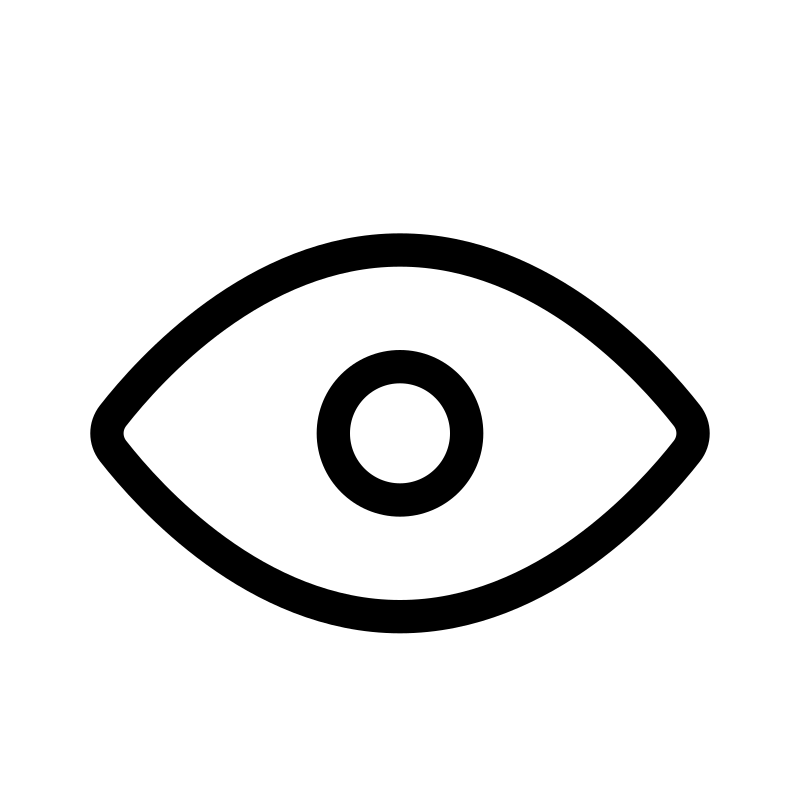
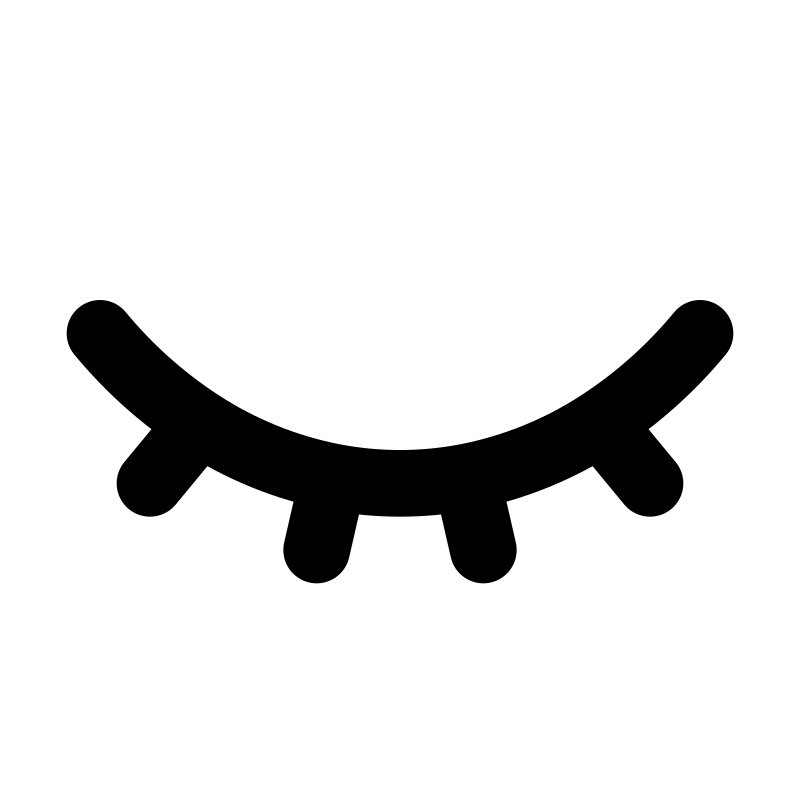
Acabado toda la parte de singleplayer

Changed region(s): [[0.0625, 0.2812, 0.9375, 0.8125]]

diff --git a/script/gamescript.js b/script/gamescript.js
@@ -7,6 +7,7 @@ const hGameWord = document.querySelector(".wordgame")
 const inputPlayerName = document.querySelector(".input-container input")
 const keyboardContainer = document.querySelector('.keyboard-container');
 const imgBallon = document.querySelector(".main-container img")
+const imgeye = document.querySelector(".eye-icon")
 const pLanguage = document.querySelector(".input-container p")
 const pWord = document.querySelector("h1");
 const pPlayerName1 = document.getElementById("PlayerName1");
@@ -64,6 +65,9 @@ btnStartGame.addEventListener("click",function(){
     startGame()
 })
 
+imgeye.addEventListener("click",function(){
+    eyeiconLogic();
+})
 window.addEventListener("load", function (){
    changeLanguageText();
    changebackgroundcolor();
@@ -72,10 +76,65 @@ window.addEventListener("load", function (){
 });
 
 //FUNCTIONS 
+const changeLanguageText = function(){
+    pLanguage.textContent = "Idioma " + "("+ browserinfo.language + ")";
+};
+const changebackgroundcolor = function(){
+    bodyGame.className= "";
+    if(browserinfo.browsername === "Firefox"){
+        bodyGame.classList.add("firefoxbackground");
+    }else if(browserinfo.browsername === "Edge"){
+        bodyGame.classList.add ("edgebackground");
+    }else if(browserinfo.browsername === "Chrome"){
+        bodyGame.classList.add("chromebackground");
+    }
+};
+const getPlayerName = function(){
+    playerinfo.playerName = getCookie("playerName");
+    pPlayerName1.textContent = playerinfo.playerName;
+};
+
+const startGame = function(){
+    const word = inputPlayerName.value.toUpperCase();
+    if(Number(word)){
+        alert("Ingrese nomes caracters no numeric")
+    }else if (inputPlayerName.value === "" ){
+        alert("Ingrese una paraula")
+    }else if(inputPlayerName.value.length < 3){
+         alert("Ingrese una paraula mes llarga que 3 lletres")
+    }else{
+    wordArray = word.split(""); 
+    displayArray = wordArray.map(() => "_"); 
+    pWord.textContent = displayArray.join("");
+    playerinfo.gamescore = 0;
+    pGameScore.textContent = playerinfo.gamescore;
+    keyboardButtons.forEach(b => {
+        b.disabled = false;
+        b.style.backgroundColor = ""; 
+    });
+
+
+    btnStartGame.disabled = true;
+    inputPlayerName.value = "";
+    inputPlayerName.disabled = true;
+    }
+}
+const eyeiconLogic = function(){
+    if(imgeye.src.includes("images/eye.png")){
+        inputPlayerName.type="text"
+        imgeye.src="images/eyeclosed.png"
+    }else{
+        inputPlayerName.type="password"
+        imgeye.src="images/eye.png"
+
+    }
+
+}
 const gameLogic = function(btn){
         var letterPoints = 0;
         var letra = btn.textContent.toUpperCase(); 
         var found = false;
+        var winpercentage = 0;
         const now = Date();
 
         for (var i = 0; i < wordArray.length; i++) {
@@ -105,19 +164,22 @@ const gameLogic = function(btn){
         if(displayArray.join("") === wordArray.join("")){
             hGameWord.classList.add("gamewonword")
             keyboardButtons.forEach(function(b){
-                b.disabled = false;
+                b.disabled = true;
                 b.style.backgroundColor = "#f0f0f0";
             });     
             if(playerinfo.gamescore > playerinfo.MaxScore){
                 playerinfo.MaxScore=playerinfo.gamescore;
                 pMaxScore.textContent=playerinfo.MaxScoreDay.toLocaleString() + " - " + playerinfo.gamescore + " punts";
-            }      
+            }     
             streak = 0;
+            errors = 0;
+            updateBallongImage();
             playerinfo.TotalGames+=1;
             playerinfo.wonGames+=1;
+            winpercentage = (playerinfo.wonGames/playerinfo.TotalGames)*100; 
             playerinfo.gamescore = 0;
             pTotalGames.textContent = playerinfo.TotalGames;
-            pWonGames.textContent = playerinfo.wonGames;
+            pWonGames.textContent = playerinfo.wonGames + "(" + winpercentage + "%)" ;
             inputPlayerName.disabled = false;
             btnStartGame.disabled = false;
             localStorage.setItem("maxscore", playerinfo.MaxScore);
@@ -127,63 +189,29 @@ const gameLogic = function(btn){
         if(errors >= maxErrors){
             hGameWord.classList.add("gamewordlost")
             keyboardButtons.forEach(function(b){
-                b.disabled = false;
+                b.disabled = true;
                 b.style.backgroundColor = "#f0f0f0";
             });           
             streak = 0;
+            errors=0;
+            updateBallongImage();
             playerinfo.TotalGames+=1;
             playerinfo.gamescore = 0;
+            winpercentage = ((playerinfo.wonGames/playerinfo.TotalGames)*100).toFixed(2); 
+            pWonGames.textContent = playerinfo.wonGames + "(" + winpercentage + "%)" ;
             pTotalGames.textContent = playerinfo.TotalGames;
             inputPlayerName.disabled = false;
             btnStartGame.disabled = false; 
             pWord.textContent = wordArray.join("");
         }
 };
-const changeLanguageText = function(){
-    pLanguage.textContent = "Idioma " + "("+ browserinfo.language + ")";
-};
 
-function changebackgroundcolor(){
-    bodyGame.className= "";
-    if(browserinfo.browsername === "Firefox"){
-        bodyGame.classList.add("firefoxbackground");
-    }else if(browserinfo.browsername === "Edge"){
-        bodyGame.classList.add ("edgebackground");
-    }else if(browserinfo.browsername === "Chrome"){
-        bodyGame.classList.add("chromebackground");
-    }
-};
-function getPlayerName(){
-    playerinfo.playerName = getCookie("playerName");
-    pPlayerName1.textContent = playerinfo.playerName;
-};
-
-function startGame(){
-    const word = inputPlayerName.value.toUpperCase();
-    if(Number(word)){
-        alert("Ingrese nomes caracters no numeric")
-    }else if (inputPlayerName.value === "" ){
-        alert("Ingrese una paraula")
-    }else if(inputPlayerName.value.length < 3){
-         alert("Ingrese una paraula mes llarga que 3 lletres")
-    }else{
-    wordArray = word.split(""); 
-    displayArray = wordArray.map(() => "_"); 
-    pWord.textContent = displayArray.join("");
-    playerinfo.gamescore = 0;
-    pGameScore.textContent = playerinfo.gamescore;
-    btnStartGame.disabled = true;
-    inputPlayerName.value = "";
-    inputPlayerName.disabled = true;
-    }
-}
-
-function updateBallongImage() {
+const updateBallongImage = function() {
     if(errors <= maxErrors){
         imgBallon.src = `images/img_globus/img_${errors}.png`;
     }
 }
-function getCookie(cname) {
+const getCookie = function(cname) {
   let name = cname + "=";
   let decodedCookie = decodeURIComponent(document.cookie);
   let ca = decodedCookie.split(';');

diff --git a/style.css b/style.css
@@ -30,7 +30,15 @@
             border: 1px solid #ccc;
             border-radius: 4px;
             font-size: 16px; /* más legible */
-            width: 200px;    /* ancho adecuado */
+            width: 200px;   
+            height: 15px; 
+        }
+         input[type="password"] {
+            padding: 8px 12px;
+            border: 1px solid #ccc;
+            border-radius: 4px;
+            font-size: 16px; /* más legible */
+            width: 200px;   
             height: 15px; 
         }
         .boto {
@@ -47,16 +55,26 @@
             background: #0056b3;
         }
         
-        
-       
-        .button-div {
-            text-align: center;
-            justify-content: center; /* centra los botones horizontalmente */
-            gap: 10px;               /* espacio entre ellos */
-            margin-top: 20px;        /* un poco de separación del contenido de arriba */
+        .eye-icon {
+            width: 24px;         
+            height: 24px;
+            cursor: pointer;      
+            margin-left: 10px;   
+            vertical-align: middle; 
+            transition: transform 0.2s ease; 
         }
 
-        /* Clase específica para hacerlos más pequeños solo en esta página */
+        .eye-icon:hover {
+            transform: scale(1.2); 
+        }
+       
+        .button-div {
+            text-align: centerf;
+            justify-content: center;
+            gap: 10px;               
+            margin-top: 20px;       
+        }
+
             .wordgame {
             width: 100%;               
             background-color: #656565; 
@@ -82,7 +100,7 @@
         }
        .word-display {
             font-size: 32px;
-            letter-spacing: 20px;  /* espacio entre guiones */
+            letter-spacing: 20px;  
             text-align: center;
             margin-top: 20px;
         }

diff --git a/game.html b/game.html
@@ -9,13 +9,14 @@
 <body>
     <main>
     <header><div class="header-container">
-        <button id = "return" class="button">Tornar</button>
-        <button id = "rules" class="button">Instruccions</button>
+        <button id = "return" class="boto">Tornar</button>
+        <button id = "rules" class="boto">Instruccions</button>
          <div class="input-container">
             <p class="standarttext">Idioma </p>
             <input type="password">
+            <img  class="eye-icon" src="images/eye.png">
         </div>
-        <button id="startgame"class="button">Començar partida</p>
+        <button id="startgame"class="boto">Començar partida</p>
     </header>
     <h1 class="wordgame">COMENÇAR PARTIDA</h1>
     <div class="main-container">
